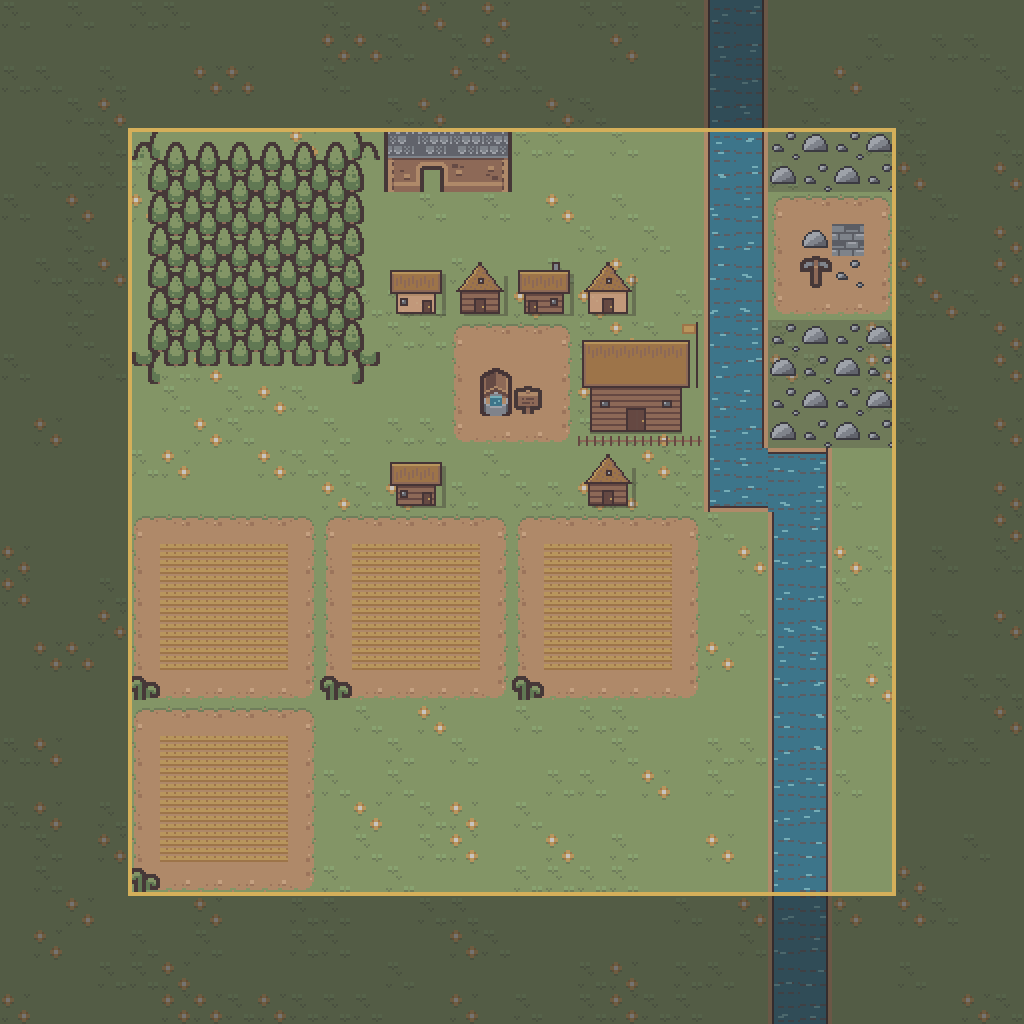
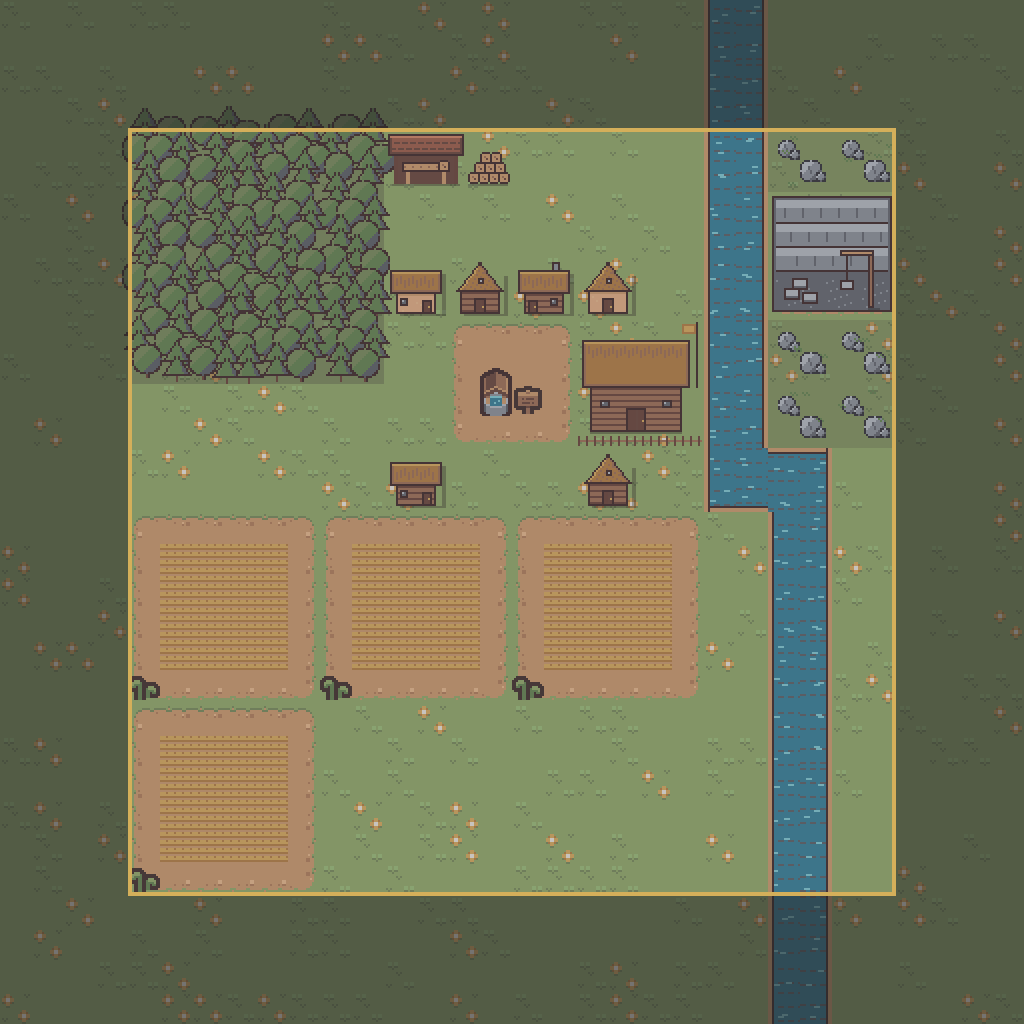
Map mockup: our own sawmill, quarry, castle, forest and hills

Changed region(s): [[0.125, 0.0938, 0.5, 0.375], [0.75, 0.125, 0.875, 0.4375]]

diff --git a/docs/index.html b/docs/index.html
@@ -548,19 +548,19 @@ footer { padding-block: 2.5rem 4rem; color: var(--ink-faint); font-size: 0.85rem
     <h3>D. Mockup: il nostro regno in Tiny Town</h3>
     <p>Il nucleo 12×12 vero del primo regno, letto da <span class="code">engine/maps</span>, con un po' di terra intorno (più scura, fuori dai confini) e il confine in oro. Ogni casella del motore è un blocco di 2×2 caselle Tiny Town: la casa 1×1 diventa tetto più muro con porta, il campo 3×3 un appezzamento 6×6. Acqua, colline e grano non esistono in Tiny Town: qui sono disegnati da noi con i colori della stessa tavolozza. Tre tavolozze a confronto, stesso disegno.</p>
     <div class="art-grid">
-      <figure><img src="assets/proposals/mockup/core_original.png?v=70b1319" alt="Il nucleo del regno con i colori originali di Tiny Town" loading="lazy" style="aspect-ratio:1/1;image-rendering:pixelated"><figcaption><b>1. Colori originali</b><span>Allegro e saturo, come lo disegna Kenney.</span></figcaption></figure>
-      <figure><img src="assets/proposals/mockup/core_serious.png?v=70b1319" alt="Il nucleo del regno con la tavolozza seriosa" loading="lazy" style="aspect-ratio:1/1;image-rendering:pixelated"><figcaption><b>2. Serioso</b><span>Saturazione dimezzata, verdi verso l'oliva, velatura seppia.</span></figcaption></figure>
-      <figure><img src="assets/proposals/mockup/core_dark.png?v=70b1319" alt="Il nucleo del regno con la tavolozza cupa" loading="lazy" style="aspect-ratio:1/1;image-rendering:pixelated"><figcaption><b>3. Cupo</b><span>Più scuro e più spento: si lega al fondo della pagina.</span></figcaption></figure>
+      <figure><img src="assets/proposals/mockup/core_original.png?v=r6" alt="Il nucleo del regno con i colori originali di Tiny Town" loading="lazy" style="aspect-ratio:1/1;image-rendering:pixelated"><figcaption><b>1. Colori originali</b><span>Allegro e saturo, come lo disegna Kenney.</span></figcaption></figure>
+      <figure><img src="assets/proposals/mockup/core_serious.png?v=r6" alt="Il nucleo del regno con la tavolozza seriosa" loading="lazy" style="aspect-ratio:1/1;image-rendering:pixelated"><figcaption><b>2. Serioso</b><span>Saturazione dimezzata, verdi verso l'oliva, velatura seppia.</span></figcaption></figure>
+      <figure><img src="assets/proposals/mockup/core_dark.png?v=r6" alt="Il nucleo del regno con la tavolozza cupa" loading="lazy" style="aspect-ratio:1/1;image-rendering:pixelated"><figcaption><b>3. Cupo</b><span>Più scuro e più spento: si lega al fondo della pagina.</span></figcaption></figure>
     </div>
   </div>
 
   <div class="proposal-group">
     <h3>E. Il palazzo nelle tre ere</h3>
-    <p>Proposta: un palazzo fisso 2×2 accanto alla piazza, verso il fiume, sulle caselle (7,3)–(8,4) del nucleo. Il motore oggi non lo conosce: è solo nel mockup. Con l'era cambiano il palazzo, le case e la piazza. Tavolozza seriosa (la n. 2). Case e palazzo sono disegnati da noi, pixel per pixel, nello stile di Tiny Town: case più strette del loro spazio, con l'erba in mezzo; una casa sì e una no tetto di fronte o a capanna col timpano, ombra portata a destra.</p>
+    <p>Proposta: un palazzo fisso 2×2 accanto alla piazza, verso il fiume, sulle caselle (7,3)–(8,4) del nucleo. Il motore oggi non lo conosce: è solo nel mockup. Con l'era cambiano il palazzo, le case e la piazza. Tavolozza seriosa (la n. 2). Edifici, bosco e colline sono disegnati da noi, pixel per pixel, nello stile di Tiny Town (segheria con tettoia e cataste, cava a gradoni con la gru, bosco di latifoglie e conifere, colline di roccia); case più strette del loro spazio, con l'erba in mezzo; una casa sì e una no tetto di fronte o a capanna col timpano, ombra portata a destra.</p>
     <div class="art-grid">
-      <figure><img src="assets/proposals/mockup/core_era1.png?v=70b1319" alt="Il regno nella prima era: villaggio con la sala del signore" loading="lazy" style="aspect-ratio:1/1;image-rendering:pixelated"><figcaption><b>Villaggio: la sala del signore</b><span>Lunga sala di legno col tetto di paglia, una staccionata, lo stendardo d'oro. Case di paglia, piazza di terra battuta.</span></figcaption></figure>
-      <figure><img src="assets/proposals/mockup/core_era2.png?v=70b1319" alt="Il regno nella seconda era: città con il palazzo comunale" loading="lazy" style="aspect-ratio:1/1;image-rendering:pixelated"><figcaption><b>Città: il palazzo comunale</b><span>Torre civica in pietra con la cella campanaria, loggia a tre archi, tetto di coppi. Case di coppi e ardesia, piazza lastricata.</span></figcaption></figure>
-      <figure><img src="assets/proposals/mockup/core_era3.png?v=70b1319" alt="Il regno nella terza era: il castello" loading="lazy" style="aspect-ratio:1/1;image-rendering:pixelated"><figcaption><b>Regno: il castello</b><span>Merli, mura in mattoni, porta con la saracinesca. Case di pietra e ardesia.</span></figcaption></figure>
+      <figure><img src="assets/proposals/mockup/core_era1.png?v=r6" alt="Il regno nella prima era: villaggio con la sala del signore" loading="lazy" style="aspect-ratio:1/1;image-rendering:pixelated"><figcaption><b>Villaggio: la sala del signore</b><span>Lunga sala di legno col tetto di paglia, una staccionata, lo stendardo d'oro. Case di paglia, piazza di terra battuta.</span></figcaption></figure>
+      <figure><img src="assets/proposals/mockup/core_era2.png?v=r6" alt="Il regno nella seconda era: città con il palazzo comunale" loading="lazy" style="aspect-ratio:1/1;image-rendering:pixelated"><figcaption><b>Città: il palazzo comunale</b><span>Torre civica in pietra con la cella campanaria, loggia a tre archi, tetto di coppi. Case di coppi e ardesia, piazza lastricata.</span></figcaption></figure>
+      <figure><img src="assets/proposals/mockup/core_era3.png?v=r6" alt="Il regno nella terza era: il castello" loading="lazy" style="aspect-ratio:1/1;image-rendering:pixelated"><figcaption><b>Regno: il castello</b><span>Mastio sul retro, due torri d'angolo con le feritoie, mura merlate, porta con la saracinesca, stendardo sul mastio. Case di pietra e ardesia.</span></figcaption></figure>
     </div>
   </div>
 </section>

diff --git a/lab/pixel_buildings.py b/lab/pixel_buildings.py
@@ -248,3 +248,117 @@ def draw_town_hall(canvas, palette, px: int, py: int) -> None:
     draw_window(canvas, palette, px + 8, py + 30, 4, 4)
     shade(canvas, px + 4, py + 59, 12)
     draw_banner(canvas, palette, px + 58, py + 3, 13)
+
+
+def draw_log_end(canvas, palette, x0: int, y0: int) -> None:
+    """@brief The cut end of a log, 6 x 6: bark ring, light wood, a dark heart."""
+    for dy in range(6):
+        for dx in range(6):
+            if (dx in (0, 5)) and (dy in (0, 5)):
+                continue
+            edge = dx in (0, 5) or dy in (0, 5)
+            put(canvas, palette, x0 + dx, y0 + dy, INK if edge else WALLS["planks"][0])
+    put(canvas, palette, x0 + 2, y0 + 2, WALLS["planks"][1])
+    put(canvas, palette, x0 + 3, y0 + 3, WALLS["planks"][2])
+
+
+def draw_sawmill(canvas, palette, px: int, py: int) -> None:
+    """@brief The sawmill on its 64 x 32 block (2 x 1 engine tiles): an open
+    shed (roof on two posts, a log on the sawing trestle inside) and a
+    pyramid of logs beside it."""
+    draw_roof(canvas, palette, px + 2, py + 3, 38, 11, "tiles", 5)
+    fill(canvas, palette, px + 5, py + 14, 32, 14, DOOR_DARK)
+    for post_x in (px + 5, px + 35):
+        fill(canvas, palette, post_x, py + 14, 2, 14, WALLS["planks"][2])
+    # The sawing trestle with a log on it, light wood against the dark shed.
+    for leg_x in (px + 11, px + 29):
+        fill(canvas, palette, leg_x, py + 22, 2, 6, WALLS["planks"][0])
+    fill(canvas, palette, px + 9, py + 17, 24, 5, WALLS["planks"][0])
+    frame(canvas, palette, px + 9, py + 17, 24, 5)
+    for x in range(px + 10, px + 32, 4):
+        put(canvas, palette, x, py + 19, WALLS["planks"][1])
+    draw_log_end(canvas, palette, px + 27, py + 16)
+    shade(canvas, px + 4, py + 28, 34)
+    for row, count in enumerate((4, 3, 2)):
+        for i in range(count):
+            draw_log_end(canvas, palette, px + 42 + row * 3 + i * 5, py + 22 - row * 5)
+    shade(canvas, px + 42, py + 28, 20)
+
+
+def draw_quarry(canvas, palette, px: int, py: int) -> None:
+    """@brief The quarry on its 64 x 64 block: three benches cut into the
+    rock, stepping down to the front, cut blocks and a wooden crane."""
+    stone_light, stone, stone_dark = WALLS["stone"]
+    # The pit: a sunken floor of broken stone, then the benches as terraces
+    # whose fronts are cut faces, each one wider than the one above.
+    fill(canvas, palette, px + 2, py + 2, 60, 58, stone_dark)
+    frame(canvas, palette, px + 2, py + 2, 60, 58)
+    for i in range(40):
+        put(canvas, palette, px + 4 + (i * 37) % 56, py + 44 + (i * 11) % 14, stone)
+    for step, (x0, y0, width) in enumerate(((4, 4, 56), (4, 16, 56), (4, 28, 56))):
+        fill(canvas, palette, px + x0, py + y0, width, 4, stone_light)
+        fill(canvas, palette, px + x0, py + y0 + 4, width, 8, stone)
+        for x in range(px + x0, px + x0 + width):
+            put(canvas, palette, x, py + y0 + 11, INK)
+        for x in range(px + x0 + 4 + step * 3, px + x0 + width - 2, 9):
+            for y in range(py + y0 + 4, py + y0 + 9):
+                put(canvas, palette, x, y, stone_dark)
+    for bx, by in ((8, 48), (17, 50), (12, 43)):
+        fill(canvas, palette, px + bx, py + by, 8, 6, stone_light)
+        fill(canvas, palette, px + bx, py + by + 4, 8, 2, stone_dark)
+        frame(canvas, palette, px + bx, py + by, 8, 6)
+    # The crane: a post, an arm, a rope and a block in the air.
+    wood_light, wood, wood_dark = WALLS["planks"]
+    fill(canvas, palette, px + 50, py + 30, 3, 28, wood)
+    frame(canvas, palette, px + 50, py + 30, 3, 28)
+    fill(canvas, palette, px + 36, py + 29, 17, 3, wood_light)
+    frame(canvas, palette, px + 36, py + 29, 17, 3)
+    for y in range(py + 32, py + 44):
+        put(canvas, palette, px + 39, y, INK)
+    fill(canvas, palette, px + 36, py + 44, 7, 5, stone_light)
+    frame(canvas, palette, px + 36, py + 44, 7, 5)
+    shade(canvas, px + 50, py + 58, 6)
+
+
+def draw_crenellations(canvas, palette, x0: int, y0: int, width: int) -> None:
+    """@brief Merlons along a wall top: 3 px wide, 3 px tall, 3 px apart."""
+    light = WALLS["stone"][0]
+    for x in range(x0, x0 + width):
+        if (x - x0) // 3 % 2 == 0:
+            for y in range(y0, y0 + 3):
+                put(canvas, palette, x, y, light)
+            put(canvas, palette, x, y0 - 1, INK)
+    for x in range(x0, x0 + width):
+        put(canvas, palette, x, y0 + 3, INK)
+
+
+def draw_arrow_slit(canvas, palette, x: int, y: int) -> None:
+    for dy in range(5):
+        put(canvas, palette, x, y + dy, INK)
+    put(canvas, palette, x - 1, y + 2, INK)
+    put(canvas, palette, x + 1, y + 2, INK)
+
+
+def draw_castle(canvas, palette, px: int, py: int) -> None:
+    """@brief Era 3: the castle on its 64 x 64 block: a keep at the back,
+    two corner towers, a curtain wall with the gate and its portcullis,
+    the gold banner on the keep."""
+    draw_wall(canvas, palette, px + 18, py + 9, 28, 22, "stone", 7)
+    draw_crenellations(canvas, palette, px + 18, py + 5, 28)
+    draw_window(canvas, palette, px + 30, py + 15, 4, 5)
+    draw_wall(canvas, palette, px + 14, py + 34, 36, 25, "stone", 8)
+    draw_crenellations(canvas, palette, px + 14, py + 30, 36)
+    draw_arch(canvas, palette, px + 26, py + 42, 12, 17, WALLS["stone"][1])
+    for x in range(px + 28, px + 37, 2):
+        for y in range(py + 44, py + 54):
+            put(canvas, palette, x, y, WALLS["stone"][2])
+    for y in range(py + 46, py + 54, 3):
+        for x in range(px + 27, px + 37):
+            put(canvas, palette, x, y, WALLS["stone"][2])
+    for tower_x in (px + 2, px + 48):
+        draw_wall(canvas, palette, tower_x, py + 20, 14, 39, "stone", 9)
+        draw_crenellations(canvas, palette, tower_x, py + 16, 14)
+        draw_arrow_slit(canvas, palette, tower_x + 7, py + 27)
+        draw_arrow_slit(canvas, palette, tower_x + 7, py + 42)
+    shade(canvas, px + 2, py + 59, 60)
+    draw_banner(canvas, palette, px + 32, py + 0, 6, flag_left=False)

diff --git a/lab/pixel_terrain.py b/lab/pixel_terrain.py
@@ -1,0 +1,116 @@
+"""@brief Our own pixel-art terrain for the map mockup: forest and hills,
+drawn by code in the colours of the Tiny Town palette.
+
+Why our own: Tiny Town's forest pieces showed odd roots on the edges and
+the hills were scattered pebbles (feedback 2026-11-08). Here a forest tile
+holds a few round trees and conifers at fixed pseudo-random spots, drawn
+back to front so canopies overlap; a hill tile holds rock outcrops with
+light and shade and a few grass tufts.
+
+Coordinates are pixels of the mockup canvas; one engine tile is a 32 x 32
+block. Deterministic: positions come from the tile's coordinates.
+"""
+
+from pixel_buildings import INK, put
+
+LEAF_LIGHT, LEAF, LEAF_DARK = 15, 22, 2   # darker greens: the forest is a mass, not a lawn
+TRUNK = 12
+ROCK_LIGHT, ROCK, ROCK_DARK, ROCK_OUTLINE = 9, 16, 27, 23
+TUFT = 22
+
+# Tree spots inside a 32 x 32 block: (x, y of the trunk base, kind).
+TREE_LAYOUTS = (
+    ((6, 10, "round"), (18, 8, "pine"), (27, 12, "round"), (12, 20, "pine"), (24, 22, "round"),
+     (5, 29, "round"), (17, 31, "pine"), (28, 31, "pine")),
+    ((8, 9, "pine"), (21, 10, "round"), (4, 19, "round"), (15, 19, "round"), (27, 21, "pine"),
+     (10, 30, "pine"), (22, 30, "round")),
+    ((13, 9, "round"), (26, 9, "pine"), (5, 17, "pine"), (20, 19, "round"), (9, 28, "round"),
+     (24, 30, "pine"), (30, 24, "round")),
+)
+
+
+def tile_hash(x: int, y: int, modulo: int) -> int:
+    return ((x * 92837111) ^ (y * 689287499) ^ 0x2545F491) % modulo
+
+
+def disc(canvas, palette, centre_x: int, centre_y: int, radius: int, light: int, mid: int, dark: int,
+         outline: int = INK) -> None:
+    """@brief A shaded disc: light towards the top left, dark towards the
+    bottom right, an outline ring. Used for canopies and rocks."""
+    for dy in range(-radius - 1, radius + 2):
+        for dx in range(-radius - 1, radius + 2):
+            distance = dx * dx + dy * dy
+            if distance > (radius + 1) * (radius + 1) - 1:
+                continue
+            if distance > radius * radius:
+                colour = outline
+            elif dx + dy < -radius * 0.5:
+                colour = light
+            elif dx + dy > radius * 0.6:
+                colour = dark
+            else:
+                colour = mid
+            put(canvas, palette, centre_x + dx, centre_y + dy, colour)
+
+
+def draw_round_tree(canvas, palette, base_x: int, base_y: int) -> None:
+    for y in range(base_y - 4, base_y + 1):
+        put(canvas, palette, base_x, y, TRUNK)
+        put(canvas, palette, base_x + 1, y, INK)
+    disc(canvas, palette, base_x, base_y - 9, 7, LEAF_LIGHT, LEAF, LEAF_DARK)
+
+
+def draw_pine(canvas, palette, base_x: int, base_y: int) -> None:
+    """@brief A conifer: two stacked triangles, sunlit left, dark right."""
+    for y in range(base_y - 2, base_y + 1):
+        put(canvas, palette, base_x, y, TRUNK)
+    for tier_top, tier_height in ((base_y - 19, 10), (base_y - 12, 10)):
+        for row in range(tier_height):
+            half = 1 + row * 7 // tier_height
+            for dx in range(-half, half + 1):
+                colour = LEAF_LIGHT if dx < -half // 2 else LEAF_DARK if dx > half // 2 else LEAF
+                if dx in (-half, half) or row == tier_height - 1:
+                    colour = INK
+                put(canvas, palette, base_x + dx, tier_top + row, colour)
+
+
+def draw_forest(canvas, palette, tile_origins: list[tuple[int, int]]) -> None:
+    """@brief Trees of every forest tile, sorted by their base so the ones
+    in front overlap the ones behind across tile borders."""
+    trees = []
+    for px, py in tile_origins:
+        layout = TREE_LAYOUTS[tile_hash(px, py, len(TREE_LAYOUTS))]
+        for x, y, kind in layout:
+            trees.append((py + y, px + x, kind))
+    for base_y, base_x, kind in sorted(trees):
+        if kind == "round":
+            draw_round_tree(canvas, palette, base_x, base_y)
+        else:
+            draw_pine(canvas, palette, base_x, base_y)
+
+
+def draw_outcrop(canvas, palette, centre_x: int, centre_y: int, radius: int) -> None:
+    """@brief A rock outcrop: a big shaded boulder, a smaller one leaning on
+    it, a crack."""
+    disc(canvas, palette, centre_x, centre_y, radius, ROCK_LIGHT, ROCK, ROCK_DARK, ROCK_OUTLINE)
+    disc(canvas, palette, centre_x + radius, centre_y + radius // 2 + 1, max(2, radius // 2),
+         ROCK_LIGHT, ROCK, ROCK_DARK, ROCK_OUTLINE)
+    for i in range(radius - 1):
+        put(canvas, palette, centre_x - 1 + i // 2, centre_y - radius // 2 + i, ROCK_DARK)
+
+
+def draw_tuft(canvas, palette, x: int, y: int) -> None:
+    for dx, dy in ((0, 0), (1, -1), (2, 0), (-1, -1)):
+        put(canvas, palette, x + dx, y + dy, TUFT)
+
+
+def draw_hills(canvas, palette, tile_origins: list[tuple[int, int]]) -> None:
+    """@brief One big outcrop or two small ones per hill tile, plus tufts."""
+    for px, py in tile_origins:
+        if tile_hash(px, py, 2) == 0:
+            draw_outcrop(canvas, palette, px + 14, py + 15, 7)
+        else:
+            draw_outcrop(canvas, palette, px + 9, py + 10, 4)
+            draw_outcrop(canvas, palette, px + 21, py + 21, 5)
+        for i in range(3):
+            draw_tuft(canvas, palette, px + 3 + tile_hash(px + i, py, 26), py + 4 + tile_hash(px, py + i, 25))

diff --git a/lab/tiny_town_mockup.py b/lab/tiny_town_mockup.py
@@ -27,6 +27,7 @@ from pathlib import Path
 
 sys.path.insert(0, str(Path(__file__).resolve().parent))
 import pixel_buildings  # noqa: E402
+import pixel_terrain  # noqa: E402
 from pixel_png import read_indexed, write_rgb  # noqa: E402
 
 ROOT = Path(__file__).resolve().parent.parent
@@ -170,12 +171,24 @@ def draw_terrain(canvas: Canvas, sheet, world: list[str]) -> None:
             char = terrain_at(world, sub_x, sub_y)
             canvas.put_sheet_tile(sheet, GRASS[spot_hash(sub_x, sub_y, len(GRASS))], sub_x, sub_y)
             if char == "T":
-                canvas.put_sheet_tile(sheet, FOREST[edge_piece(is_forest, sub_x, sub_y)], sub_x, sub_y)
+                shade_tile(canvas, sub_x, sub_y, 0.82)
             elif char == "^":
-                shade_tile(canvas, sub_x, sub_y, 0.8)
-                canvas.put_hand_tile(palette, mound if spot_hash(sub_x, sub_y, 2) == 0 else rocks, sub_x, sub_y)
+                shade_tile(canvas, sub_x, sub_y, 0.88)
             elif char == "~":
                 draw_water(canvas, palette, world, sub_x, sub_y)
+    # Trees and rocks are drawn per engine tile, after the ground, so they
+    # can overlap the tile behind them (pixel_terrain).
+    forest, hills = [], []
+    for tile_y in range(VIEW[3]):
+        for tile_x in range(VIEW[2]):
+            origin = (tile_x * 2 * TILE, tile_y * 2 * TILE)
+            char = terrain_at(world, tile_x * 2, tile_y * 2)
+            if char == "T":
+                forest.append(origin)
+            elif char == "^":
+                hills.append(origin)
+    pixel_terrain.draw_hills(canvas, palette, hills)
+    pixel_terrain.draw_forest(canvas, palette, forest)
 
 
 def shade_tile(canvas: Canvas, sub_x: int, sub_y: int, factor: float) -> None:
@@ -259,6 +272,9 @@ def draw_palace(canvas: Canvas, sheet, era: int, sub_x: int, sub_y: int) -> None
     if era == 2:
         pixel_buildings.draw_town_hall(canvas, palette, px, py)
         return
+    if era == 3:
+        pixel_buildings.draw_castle(canvas, palette, px, py)
+        return
     for dy, row in enumerate(PALACE_BY_ERA[era]):
         for dx, index in enumerate(row):
             canvas.put_sheet_tile(sheet, index, sub_x + dx, sub_y + dy)
@@ -301,6 +317,11 @@ def draw_farm(canvas: Canvas, sheet, sub_x: int, sub_y: int) -> None:
 
 
 def draw_sawmill(canvas: Canvas, sheet, sub_x: int, sub_y: int) -> None:
+    pixel_buildings.draw_sawmill(canvas, sheet[1], sub_x * TILE, sub_y * TILE)
+
+
+def draw_sawmill_kenney(canvas: Canvas, sheet, sub_x: int, sub_y: int) -> None:
+    """@brief First version with Tiny Town's flat roof (kept to compare)."""
     for i, index in enumerate((SLATE_ROOF[0], SLATE_ROOF[1], SLATE_ROOF[1], SLATE_ROOF[2])):
         canvas.put_sheet_tile(sheet, index, sub_x + i, sub_y)
     for i, index in enumerate((WOOD_WALL["left"], WOOD_WALL["door_open"], WOOD_WALL["mid"], WOOD_WALL["right"])):
@@ -308,6 +329,12 @@ def draw_sawmill(canvas: Canvas, sheet, sub_x: int, sub_y: int) -> None:
 
 
 def draw_quarry(canvas: Canvas, sheet, sub_x: int, sub_y: int) -> None:
+    draw_patch(canvas, sheet, DIRT, sub_x, sub_y, 4, 4)   # covers the hill's rocks under the pit
+    pixel_buildings.draw_quarry(canvas, sheet[1], sub_x * TILE, sub_y * TILE)
+
+
+def draw_quarry_kenney(canvas: Canvas, sheet, sub_x: int, sub_y: int) -> None:
+    """@brief First version, a dirt patch with Tiny Town props (kept to compare)."""
     rows, palette, alpha = sheet
     draw_patch(canvas, sheet, DIRT, sub_x, sub_y, 4, 4)
     canvas.put_hand_tile(palette, parse_hand_tile(ROCK_MOUND), sub_x + 1, sub_y + 1)
